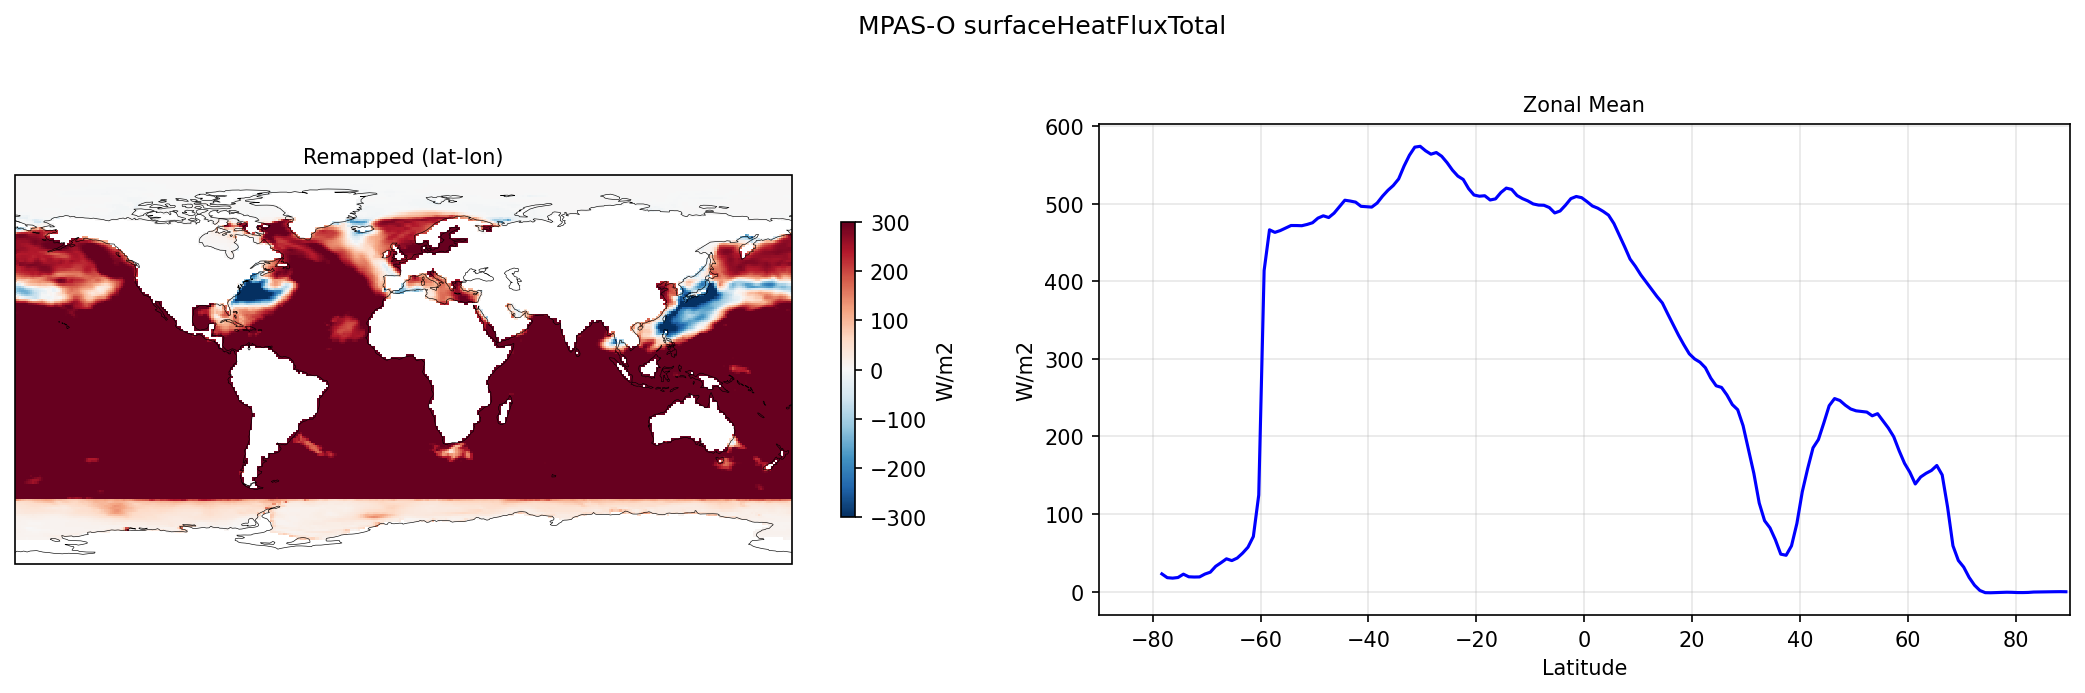
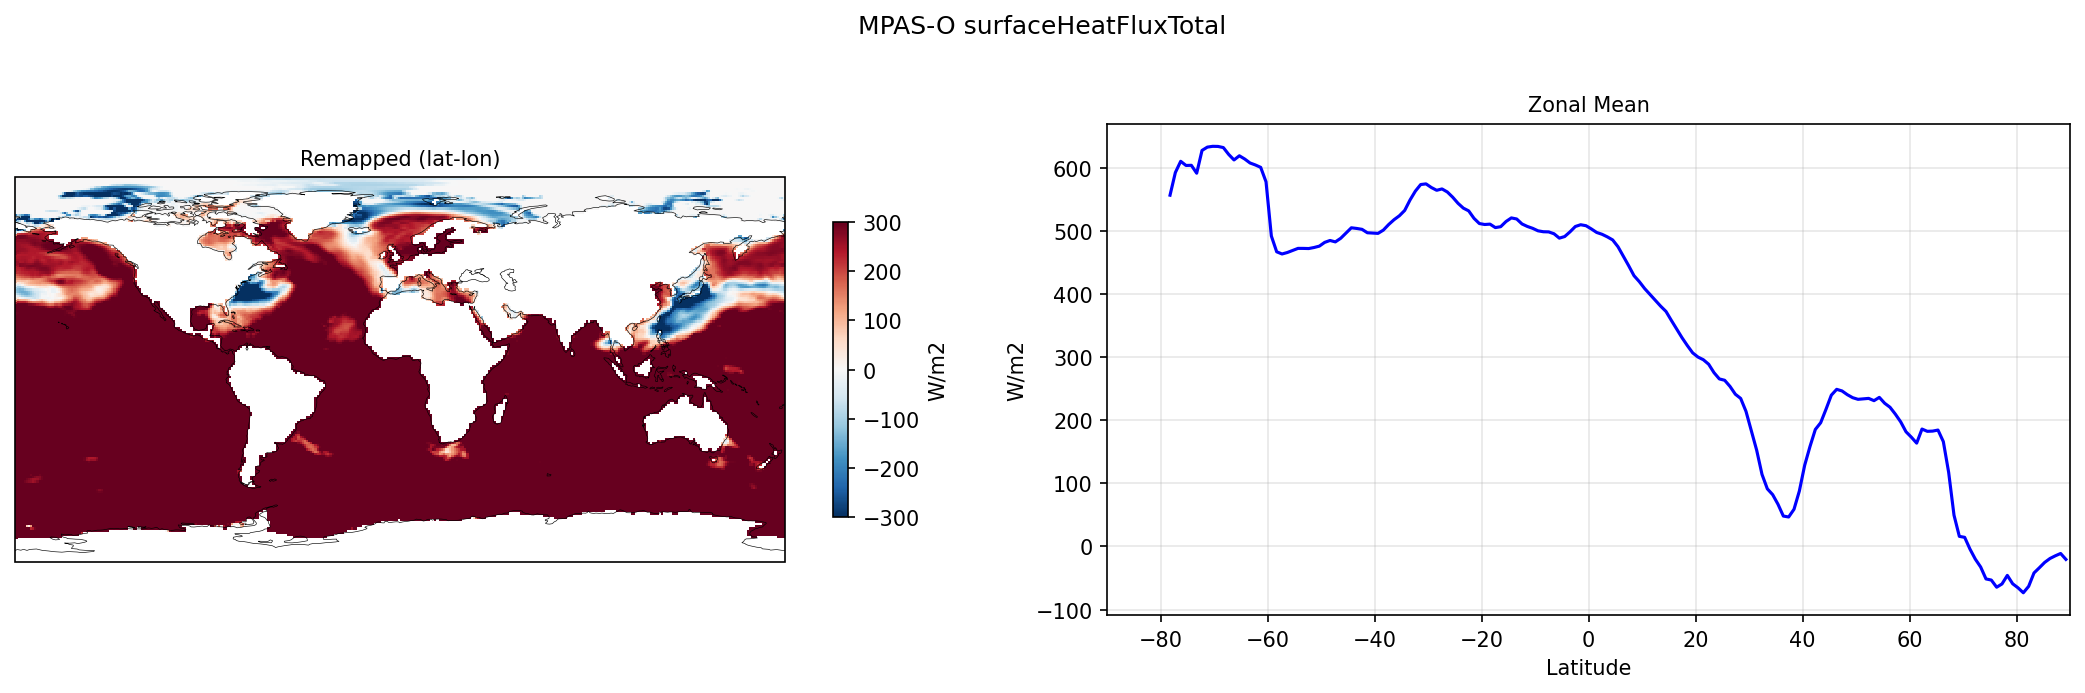
upds

diff --git a/fme_output_mpas/index.html b/fme_output_mpas/index.html
@@ -310,7 +310,7 @@
         <div class="subtitle">MPAS-Ocean &amp; MPAS-Sea Ice &mdash; Full Model Emulation Diagnostics</div>
       </div>
       <div class="hdr-right">
-        <span class="status-pill status-fail">5 issues in 3/12 components</span>
+        <span class="status-pill status-fail">10 issues in 4/12 components</span>
         <button class="theme-toggle" onclick="toggleTheme()"><span class="icon"></span> Theme</button>
       </div>
     </header>
@@ -340,9 +340,9 @@
     <div class="metric-detail">All ACE MPAS variables found</div>
   </div>
   <div class="metric-card">
-    <div class="metric-value">9/12</div>
+    <div class="metric-value">8/12</div>
     <div class="metric-label">Checks Passed</div>
-    <div class="metric-detail">3 component(s) with issues</div>
+    <div class="metric-detail">4 component(s) with issues</div>
   </div>
   <div class="metric-card">
     <div class="metric-value">1729 MB</div>
@@ -363,22 +363,27 @@
     <tr><td>MPAS-O Depth Coarsening (native)</td><td class="pass">PASS</td><td>0</td></tr>
 <tr><td>MPAS-O Depth Coarsening (remapped)</td><td class="pass">PASS</td><td>0</td></tr>
 <tr><td>MPAS-O Derived Fields (native)</td><td class="pass">PASS</td><td>0</td></tr>
-<tr><td>MPAS-O Derived Fields (remapped)</td><td class="fail">FAIL</td><td>3</td></tr>
+<tr><td>MPAS-O Derived Fields (remapped)</td><td class="fail">FAIL</td><td>7</td></tr>
 <tr><td>MPAS-O Vertical Reduction (native)</td><td class="pass">PASS</td><td>0</td></tr>
 <tr><td>MPAS-O Vertical Reduction (remapped)</td><td class="pass">PASS</td><td>0</td></tr>
 <tr><td>MPAS-SI Derived Fields (native)</td><td class="pass">PASS</td><td>0</td></tr>
 <tr><td>MPAS-SI Derived Fields (remapped)</td><td class="pass">PASS</td><td>0</td></tr>
 <tr><td>Remap Conservation</td><td class="fail">FAIL</td><td>1</td></tr>
-<tr><td>Heat Flux Closure</td><td class="pass">PASS</td><td>0</td></tr>
+<tr><td>Heat Flux Closure</td><td class="fail">FAIL</td><td>1</td></tr>
 <tr><td>Temporal Consistency</td><td class="pass">PASS</td><td>0</td></tr>
 <tr><td>Legacy vs FME</td><td class="fail">FAIL</td><td>1</td></tr>
 
     </table>
 
-    <details><summary>Show all 5 issues</summary><table><tr><th>Component</th><th>Issue</th></tr><tr><td>MPAS-O Derived Fields (remapped)</td><td>remapped/ssh: min=-108.2 below -5</td></tr>
+    <details><summary>Show all 10 issues</summary><table><tr><th>Component</th><th>Issue</th></tr><tr><td>MPAS-O Derived Fields (remapped)</td><td>remapped/ssh: min=-126.6 below -5</td></tr>
 <tr><td>MPAS-O Derived Fields (remapped)</td><td>remapped/latentHeatFlux: min=-595.6 below -500</td></tr>
 <tr><td>MPAS-O Derived Fields (remapped)</td><td>remapped/sensibleHeatFlux: min=-610.2 below -300</td></tr>
-<tr><td>Remap Conservation</td><td>ssh: native=-1.813 remap=0.1324 rel_diff=107.30%</td></tr>
+<tr><td>MPAS-O Derived Fields (remapped)</td><td>remapped/windStressZonal: min=-9.531 below -2</td></tr>
+<tr><td>MPAS-O Derived Fields (remapped)</td><td>remapped/windStressZonal: max=10.55 above 2</td></tr>
+<tr><td>MPAS-O Derived Fields (remapped)</td><td>remapped/windStressMeridional: min=-8.411 below -2</td></tr>
+<tr><td>MPAS-O Derived Fields (remapped)</td><td>remapped/windStressMeridional: max=14.24 above 2</td></tr>
+<tr><td>Remap Conservation</td><td>ssh: native=-1.813 remap=-0.07762 rel_diff=95.72%</td></tr>
+<tr><td>Heat Flux Closure</td><td>Heat flux residual: rms=164.3 max=1613</td></tr>
 <tr><td>Legacy vs FME</td><td>No overlapping variable pairs found for comparison</td></tr>
 </table></details>
 
@@ -924,34 +929,34 @@ out_names:
     <table class="timing-table">
     <tr><td>*****</td><td>GLOBAL</td><td>STATISTICS</td><td>(</td><td>512</td><td>MPI</td><td>TASKS)</td><td>*****</td></tr>
 <tr><td>name</td><td>on</td><td>processes</td><td>threads</td><td>count</td><td>walltotal</td><td>wallmax</td><td>(proc</td><td>thrd</td><td>)</td><td>wallmin</td><td>(proc</td><td>thrd</td><td>)</td></tr>
-<tr><td>"CPL:INIT"</td><td>-</td><td>512</td><td>512</td><td>5.120000e+02</td><td>3.886409e+04</td><td>75.992</td><td>(</td><td>352</td><td>0)</td><td>75.798</td><td>(</td><td>121</td><td>0)</td></tr>
-<tr><td>"CPL:cime_pre_init1"</td><td>-</td><td>512</td><td>512</td><td>5.120000e+02</td><td>1.344374e+03</td><td>2.711</td><td>(</td><td>352</td><td>0)</td><td>2.518</td><td>(</td><td>0</td><td>0)</td></tr>
-<tr><td>"CPL:mpi_init"</td><td>-</td><td>512</td><td>512</td><td>5.120000e+02</td><td>1.098857e+03</td><td>2.231</td><td>(</td><td>274</td><td>0)</td><td>2.038</td><td>(</td><td>64</td><td>0)</td></tr>
-<tr><td>"CPL:ESMF_Initialize"</td><td>-</td><td>512</td><td>512</td><td>5.120000e+02</td><td>5.930281e-01</td><td>0.002</td><td>(</td><td>333</td><td>0)</td><td>0.000</td><td>(</td><td>414</td><td>0)</td></tr>
-<tr><td>"CPL:cime_pre_init2"</td><td>-</td><td>512</td><td>512</td><td>5.120000e+02</td><td>1.104027e+02</td><td>0.219</td><td>(</td><td>24</td><td>0)</td><td>0.213</td><td>(</td><td>344</td><td>0)</td></tr>
-<tr><td>"CPL:seq_infodata_init"</td><td>-</td><td>512</td><td>512</td><td>5.120000e+02</td><td>1.773421e+01</td><td>0.071</td><td>(</td><td>88</td><td>0)</td><td>0.007</td><td>(</td><td>394</td><td>0)</td></tr>
-<tr><td>"CPL:seq_timemgr_clockInit"</td><td>-</td><td>512</td><td>512</td><td>5.120000e+02</td><td>3.149655e+00</td><td>0.010</td><td>(</td><td>82</td><td>0)</td><td>0.003</td><td>(</td><td>296</td><td>0)</td></tr>
-<tr><td>"CPL:cime_init"</td><td>-</td><td>512</td><td>512</td><td>5.120000e+02</td><td>3.740865e+04</td><td>73.066</td><td>(</td><td>365</td><td>0)</td><td>73.062</td><td>(</td><td>150</td><td>0)</td></tr>
-<tr><td>"CPL:init_comps"</td><td>-</td><td>512</td><td>512</td><td>5.120000e+02</td><td>3.164334e+04</td><td>61.808</td><td>(</td><td>79</td><td>0)</td><td>61.794</td><td>(</td><td>511</td><td>0)</td></tr>
-<tr><td>"CPL:comp_init_pre_all"</td><td>-</td><td>512</td><td>512</td><td>5.120000e+02</td><td>1.509779e-01</td><td>0.002</td><td>(</td><td>53</td><td>0)</td><td>0.000</td><td>(</td><td>64</td><td>0)</td></tr>
-<tr><td>"comp_init_cc_iac"</td><td>-</td><td>512</td><td>512</td><td>5.120000e+02</td><td>2.269009e+00</td><td>0.006</td><td>(</td><td>141</td><td>0)</td><td>0.003</td><td>(</td><td>1</td><td>0)</td></tr>
-<tr><td>"z_i:comp_init"</td><td>-</td><td>512</td><td>512</td><td>5.120000e+02</td><td>6.144731e-01</td><td>0.002</td><td>(</td><td>340</td><td>0)</td><td>0.000</td><td>(</td><td>193</td><td>0)</td></tr>
-<tr><td>"CPL:comp_init_cc_atm"</td><td>-</td><td>512</td><td>512</td><td>5.120000e+02</td><td>1.548974e+04</td><td>30.253</td><td>(</td><td>290</td><td>0)</td><td>30.253</td><td>(</td><td>11</td><td>0)</td></tr>
-<tr><td>"a_i:comp_init"</td><td>-</td><td>512</td><td>512</td><td>1.024000e+03</td><td>1.733815e+04</td><td>33.917</td><td>(</td><td>413</td><td>0)</td><td>33.756</td><td>(</td><td>265</td><td>0)</td></tr>
-<tr><td>"a_i:cam_init"</td><td>-</td><td>512</td><td>512</td><td>5.120000e+02</td><td>1.538621e+04</td><td>30.053</td><td>(</td><td>156</td><td>0)</td><td>30.050</td><td>(</td><td>304</td><td>0)</td></tr>
-<tr><td>"a_i:cam_initfiles_open"</td><td>-</td><td>512</td><td>512</td><td>5.120000e+02</td><td>5.719854e+01</td><td>0.114</td><td>(</td><td>156</td><td>0)</td><td>0.110</td><td>(</td><td>275</td><td>0)</td></tr>
-<tr><td>"a_i:cam_initial"</td><td>-</td><td>512</td><td>512</td><td>5.120000e+02</td><td>2.909579e+03</td><td>5.683</td><td>(</td><td>0</td><td>0)</td><td>5.683</td><td>(</td><td>374</td><td>0)</td></tr>
-<tr><td>"a_i:dyn_init1"</td><td>-</td><td>512</td><td>512</td><td>5.120000e+02</td><td>8.311118e+01</td><td>0.170</td><td>(</td><td>144</td><td>0)</td><td>0.147</td><td>(</td><td>329</td><td>0)</td></tr>
-<tr><td>"a_i:hycoef_init"</td><td>-</td><td>512</td><td>512</td><td>5.120000e+02</td><td>1.188449e+01</td><td>0.026</td><td>(</td><td>241</td><td>0)</td><td>0.020</td><td>(</td><td>346</td><td>0)</td></tr>
-<tr><td>"a_i:prim_init1"</td><td>-</td><td>512</td><td>512</td><td>5.120000e+02</td><td>4.607415e+01</td><td>0.095</td><td>(</td><td>23</td><td>0)</td><td>0.085</td><td>(</td><td>179</td><td>0)</td></tr>
-<tr><td>"a_i:repro_sum_finalsum"</td><td>-</td><td>512</td><td>512</td><td>4.505600e+04</td><td>1.548878e-02</td><td>0.000</td><td>(</td><td>127</td><td>0)</td><td>0.000</td><td>(</td><td>260</td><td>0)</td></tr>
-<tr><td>"a_i:compose_init"</td><td>-</td><td>512</td><td>512</td><td>5.120000e+02</td><td>8.403939e+00</td><td>0.020</td><td>(</td><td>260</td><td>0)</td><td>0.013</td><td>(</td><td>8</td><td>0)</td></tr>
-<tr><td>"a_i:sl_init1"</td><td>-</td><td>512</td><td>512</td><td>5.120000e+02</td><td>2.170584e+00</td><td>0.007</td><td>(</td><td>8</td><td>0)</td><td>0.001</td><td>(</td><td>432</td><td>0)</td></tr>
-<tr><td>"a_i:phys_grid_init"</td><td>-</td><td>512</td><td>512</td><td>5.120000e+02</td><td>1.406630e+01</td><td>0.044</td><td>(</td><td>382</td><td>0)</td><td>0.019</td><td>(</td><td>139</td><td>0)</td></tr>
-<tr><td>"a_i:initial_conds"</td><td>-</td><td>512</td><td>512</td><td>5.120000e+02</td><td>2.776080e+03</td><td>5.434</td><td>(</td><td>135</td><td>0)</td><td>5.412</td><td>(</td><td>423</td><td>0)</td></tr>
-<tr><td>"a_i:PIO:initdecomp"</td><td>-</td><td>512</td><td>512</td><td>3.072000e+03</td><td>3.218570e+01</td><td>0.066</td><td>(</td><td>173</td><td>0)</td><td>0.061</td><td>(</td><td>63</td><td>0)</td></tr>
-<tr><td>"a_i:PIO:PIOc_initdecomp"</td><td>-</td><td>512</td><td>512</td><td>3.072000e+03</td><td>3.210587e+01</td><td>0.066</td><td>(</td><td>173</td><td>0)</td><td>0.061</td><td>(</td><td>63</td><td>0)</td></tr>
-<tr><td>"a_i:dyn_init2"</td><td>-</td><td>512</td><td>512</td><td>5.120000e+02</td><td>2.988010e+01</td><td>0.065</td><td>(</td><td>423</td><td>0)</td><td>0.052</td><td>(</td><td>215</td><td>0)</td></tr>
+<tr><td>"CPL:INIT"</td><td>-</td><td>512</td><td>512</td><td>5.120000e+02</td><td>4.287277e+04</td><td>83.812</td><td>(</td><td>53</td><td>0)</td><td>83.684</td><td>(</td><td>181</td><td>0)</td></tr>
+<tr><td>"CPL:cime_pre_init1"</td><td>-</td><td>512</td><td>512</td><td>5.120000e+02</td><td>1.092278e+03</td><td>2.209</td><td>(</td><td>4</td><td>0)</td><td>2.082</td><td>(</td><td>133</td><td>0)</td></tr>
+<tr><td>"CPL:mpi_init"</td><td>-</td><td>512</td><td>512</td><td>5.120000e+02</td><td>8.555130e+02</td><td>1.746</td><td>(</td><td>29</td><td>0)</td><td>1.620</td><td>(</td><td>129</td><td>0)</td></tr>
+<tr><td>"CPL:ESMF_Initialize"</td><td>-</td><td>512</td><td>512</td><td>5.120000e+02</td><td>4.800276e-01</td><td>0.002</td><td>(</td><td>1</td><td>0)</td><td>0.000</td><td>(</td><td>262</td><td>0)</td></tr>
+<tr><td>"CPL:cime_pre_init2"</td><td>-</td><td>512</td><td>512</td><td>5.120000e+02</td><td>1.196932e+02</td><td>0.236</td><td>(</td><td>365</td><td>0)</td><td>0.231</td><td>(</td><td>455</td><td>0)</td></tr>
+<tr><td>"CPL:seq_infodata_init"</td><td>-</td><td>512</td><td>512</td><td>5.120000e+02</td><td>1.972640e+01</td><td>0.076</td><td>(</td><td>90</td><td>0)</td><td>0.007</td><td>(</td><td>497</td><td>0)</td></tr>
+<tr><td>"CPL:seq_timemgr_clockInit"</td><td>-</td><td>512</td><td>512</td><td>5.120000e+02</td><td>2.938952e+00</td><td>0.009</td><td>(</td><td>137</td><td>0)</td><td>0.002</td><td>(</td><td>423</td><td>0)</td></tr>
+<tr><td>"CPL:cime_init"</td><td>-</td><td>512</td><td>512</td><td>5.120000e+02</td><td>4.166025e+04</td><td>81.370</td><td>(</td><td>333</td><td>0)</td><td>81.366</td><td>(</td><td>504</td><td>0)</td></tr>
+<tr><td>"CPL:init_comps"</td><td>-</td><td>512</td><td>512</td><td>5.120000e+02</td><td>3.658103e+04</td><td>71.452</td><td>(</td><td>75</td><td>0)</td><td>71.435</td><td>(</td><td>511</td><td>0)</td></tr>
+<tr><td>"CPL:comp_init_pre_all"</td><td>-</td><td>512</td><td>512</td><td>5.120000e+02</td><td>1.610926e-01</td><td>0.002</td><td>(</td><td>131</td><td>0)</td><td>0.000</td><td>(</td><td>257</td><td>0)</td></tr>
+<tr><td>"comp_init_cc_iac"</td><td>-</td><td>512</td><td>512</td><td>5.120000e+02</td><td>2.998834e+00</td><td>0.008</td><td>(</td><td>65</td><td>0)</td><td>0.005</td><td>(</td><td>324</td><td>0)</td></tr>
+<tr><td>"z_i:comp_init"</td><td>-</td><td>512</td><td>512</td><td>5.120000e+02</td><td>5.979864e-01</td><td>0.002</td><td>(</td><td>67</td><td>0)</td><td>0.000</td><td>(</td><td>431</td><td>0)</td></tr>
+<tr><td>"CPL:comp_init_cc_atm"</td><td>-</td><td>512</td><td>512</td><td>5.120000e+02</td><td>1.906076e+04</td><td>37.228</td><td>(</td><td>109</td><td>0)</td><td>37.228</td><td>(</td><td>131</td><td>0)</td></tr>
+<tr><td>"a_i:comp_init"</td><td>-</td><td>512</td><td>512</td><td>1.024000e+03</td><td>2.068970e+04</td><td>40.475</td><td>(</td><td>253</td><td>0)</td><td>40.295</td><td>(</td><td>8</td><td>0)</td></tr>
+<tr><td>"a_i:cam_init"</td><td>-</td><td>512</td><td>512</td><td>5.120000e+02</td><td>1.893940e+04</td><td>36.993</td><td>(</td><td>429</td><td>0)</td><td>36.990</td><td>(</td><td>6</td><td>0)</td></tr>
+<tr><td>"a_i:cam_initfiles_open"</td><td>-</td><td>512</td><td>512</td><td>5.120000e+02</td><td>6.428639e+01</td><td>0.128</td><td>(</td><td>429</td><td>0)</td><td>0.124</td><td>(</td><td>73</td><td>0)</td></tr>
+<tr><td>"a_i:cam_initial"</td><td>-</td><td>512</td><td>512</td><td>5.120000e+02</td><td>2.582245e+03</td><td>5.044</td><td>(</td><td>0</td><td>0)</td><td>5.043</td><td>(</td><td>199</td><td>0)</td></tr>
+<tr><td>"a_i:dyn_init1"</td><td>-</td><td>512</td><td>512</td><td>5.120000e+02</td><td>9.110117e+01</td><td>0.184</td><td>(</td><td>210</td><td>0)</td><td>0.169</td><td>(</td><td>90</td><td>0)</td></tr>
+<tr><td>"a_i:hycoef_init"</td><td>-</td><td>512</td><td>512</td><td>5.120000e+02</td><td>1.086762e+01</td><td>0.025</td><td>(</td><td>311</td><td>0)</td><td>0.017</td><td>(</td><td>485</td><td>0)</td></tr>
+<tr><td>"a_i:prim_init1"</td><td>-</td><td>512</td><td>512</td><td>5.120000e+02</td><td>5.476922e+01</td><td>0.113</td><td>(</td><td>94</td><td>0)</td><td>0.102</td><td>(</td><td>220</td><td>0)</td></tr>
+<tr><td>"a_i:repro_sum_finalsum"</td><td>-</td><td>512</td><td>512</td><td>4.505600e+04</td><td>1.582523e-02</td><td>0.000</td><td>(</td><td>234</td><td>0)</td><td>0.000</td><td>(</td><td>129</td><td>0)</td></tr>
+<tr><td>"a_i:compose_init"</td><td>-</td><td>512</td><td>512</td><td>5.120000e+02</td><td>8.473667e+00</td><td>0.020</td><td>(</td><td>67</td><td>0)</td><td>0.013</td><td>(</td><td>277</td><td>0)</td></tr>
+<tr><td>"a_i:sl_init1"</td><td>-</td><td>512</td><td>512</td><td>5.120000e+02</td><td>1.940300e+00</td><td>0.008</td><td>(</td><td>28</td><td>0)</td><td>0.001</td><td>(</td><td>250</td><td>0)</td></tr>
+<tr><td>"a_i:phys_grid_init"</td><td>-</td><td>512</td><td>512</td><td>5.120000e+02</td><td>1.372737e+01</td><td>0.037</td><td>(</td><td>90</td><td>0)</td><td>0.020</td><td>(</td><td>141</td><td>0)</td></tr>
+<tr><td>"a_i:initial_conds"</td><td>-</td><td>512</td><td>512</td><td>5.120000e+02</td><td>2.436558e+03</td><td>4.772</td><td>(</td><td>163</td><td>0)</td><td>4.743</td><td>(</td><td>42</td><td>0)</td></tr>
+<tr><td>"a_i:PIO:initdecomp"</td><td>-</td><td>512</td><td>512</td><td>3.072000e+03</td><td>2.234698e+01</td><td>0.047</td><td>(</td><td>508</td><td>0)</td><td>0.042</td><td>(</td><td>124</td><td>0)</td></tr>
+<tr><td>"a_i:PIO:PIOc_initdecomp"</td><td>-</td><td>512</td><td>512</td><td>3.072000e+03</td><td>2.226938e+01</td><td>0.047</td><td>(</td><td>508</td><td>0)</td><td>0.042</td><td>(</td><td>124</td><td>0)</td></tr>
+<tr><td>"a_i:dyn_init2"</td><td>-</td><td>512</td><td>512</td><td>5.120000e+02</td><td>3.428114e+01</td><td>0.079</td><td>(</td><td>42</td><td>0)</td><td>0.059</td><td>(</td><td>191</td><td>0)</td></tr>
 
     </table>
     </div>
@@ -959,11 +964,11 @@ out_names:
 
     <h2 id="Reproducibility">Reproducibility</h2>
 <div class="repro-block"><dl>
-<dt>Command</dt><dd><code>/pscratch/sd/m/mahf708/e3sm-repo/mahf708-e3sm/cime_config/testmods_dirs/allactive/fme_output/verify_mpas.py --rundir /pscratch/sd/m/mahf708/e3sm_scratch/pm-cpu/SMS_P512.ne30pg2_r05_IcoswISC30E3r5.WCYCL1850NS.pm-cpu_gnu.allactive-fme_output.20260414_190547_gaaws4/run --legacy-rundir /pscratch/sd/m/mahf708/e3sm_scratch/pm-cpu/SMS_P512.ne30pg2_r05_IcoswISC30E3r5.WCYCL1850NS.pm-cpu_gnu.allactive-fme_legacy_output.20260414_190501_cxrnil/run --outdir /pscratch/sd/m/mahf708/share/fme_output_mpas -v</code></dd>
-<dt>Script</dt><dd><code>/pscratch/sd/m/mahf708/e3sm-repo/mahf708-e3sm/cime_config/testmods_dirs/allactive/fme_output/verify_mpas.py</code> &mdash; git: <code>8e8c237f0c (dirty)</code></dd>
-<dt>Run directory</dt><dd><code>/pscratch/sd/m/mahf708/e3sm_scratch/pm-cpu/SMS_P512.ne30pg2_r05_IcoswISC30E3r5.WCYCL1850NS.pm-cpu_gnu.allactive-fme_output.20260414_190547_gaaws4/run</code></dd>
-<dt>Host</dt><dd><code>mahf708@nid004251</code></dd>
-<dt>Generated</dt><dd>2026-04-14 19:41:43</dd>
+<dt>Command</dt><dd><code>/pscratch/sd/m/mahf708/e3sm-repo/mahf708-e3sm/cime_config/testmods_dirs/allactive/fme_output/verify_mpas.py --rundir /pscratch/sd/m/mahf708/e3sm_scratch/pm-cpu/SMS_P512.ne30pg2_r05_IcoswISC30E3r5.WCYCL1850NS.pm-cpu_gnu.allactive-fme_output.20260414_194815_f6occt/run --legacy-rundir /pscratch/sd/m/mahf708/e3sm_scratch/pm-cpu/SMS_P512.ne30pg2_r05_IcoswISC30E3r5.WCYCL1850NS.pm-cpu_gnu.allactive-fme_legacy_output.20260414_194820_01p0cr/run --outdir /pscratch/sd/m/mahf708/share/fme_output_mpas -v</code></dd>
+<dt>Script</dt><dd><code>/pscratch/sd/m/mahf708/e3sm-repo/mahf708-e3sm/cime_config/testmods_dirs/allactive/fme_output/verify_mpas.py</code> &mdash; git: <code>1ecfbf15b7</code></dd>
+<dt>Run directory</dt><dd><code>/pscratch/sd/m/mahf708/e3sm_scratch/pm-cpu/SMS_P512.ne30pg2_r05_IcoswISC30E3r5.WCYCL1850NS.pm-cpu_gnu.allactive-fme_output.20260414_194815_f6occt/run</code></dd>
+<dt>Host</dt><dd><code>mahf708@login20</code></dd>
+<dt>Generated</dt><dd>2026-04-14 20:08:45</dd>
 </dl>
 <details><summary>user_nl_mpaso</summary>
 <pre class="yaml-block">!----------------------------------------------------------------------------------
@@ -4518,6 +4523,6 @@ config_AM_fmeSeaiceDerivedFields_horiz_remap_file = '/pscratch/sd/m/mahf708/fme_
     </div>
     <footer>
       <strong>verify_mpas.py</strong> &mdash; FME MPAS Online Output Verification for E3SM
-      &mdash; Generated 2026-04-14 19:41:43
+      &mdash; Generated 2026-04-14 20:08:46
     </footer>
     </body></html>
